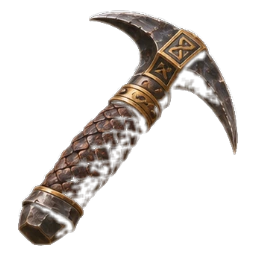
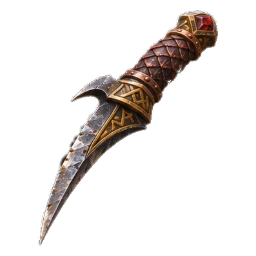
Зброя 5 тіру — нові іконки (малий кинджал замість кирки); v0.6.6, sw v214

Changed region(s): [[0.0625, 0.0312, 0.9375, 0.9688]]

diff --git a/assets/js/core.js b/assets/js/core.js
@@ -61,8 +61,8 @@ window.RPG = window.RPG || {};
   // ---------- Версія гри (головне меню, праворуч унизу) ----------
   // Піднімати при КОЖНОМУ оновленні гри: VERSION — третя цифра +1 (друга — кількість відкритих світів),
   // CACHE_VERSION — те саме число, що в sw.js → CACHE ("rpg-game-vN").
-  RPG.VERSION = "0.6.5";
-  RPG.CACHE_VERSION = 213;
+  RPG.VERSION = "0.6.6";
+  RPG.CACHE_VERSION = 214;
 
   RPG.LANGS = { uk: "Українська", en: "English" };
   // Мову вже обрав lang.js (він же підключив словник); тут — запасний шлях, якщо його на сторінці немає

diff --git a/sw.js b/sw.js
@@ -2,7 +2,7 @@
 // HTML / JS / CSS: спершу мережа (щоб оновлення гри підтягувались одразу),
 // а без інтернету — з кешу. Картинки: спершу кеш.
 // Після великих змін можна збільшити номер версії — старий кеш видалиться.
-const CACHE = "rpg-game-v213";
+const CACHE = "rpg-game-v214";
 const PRECACHE = [
   "./",
   "./assets/css/game.css",
